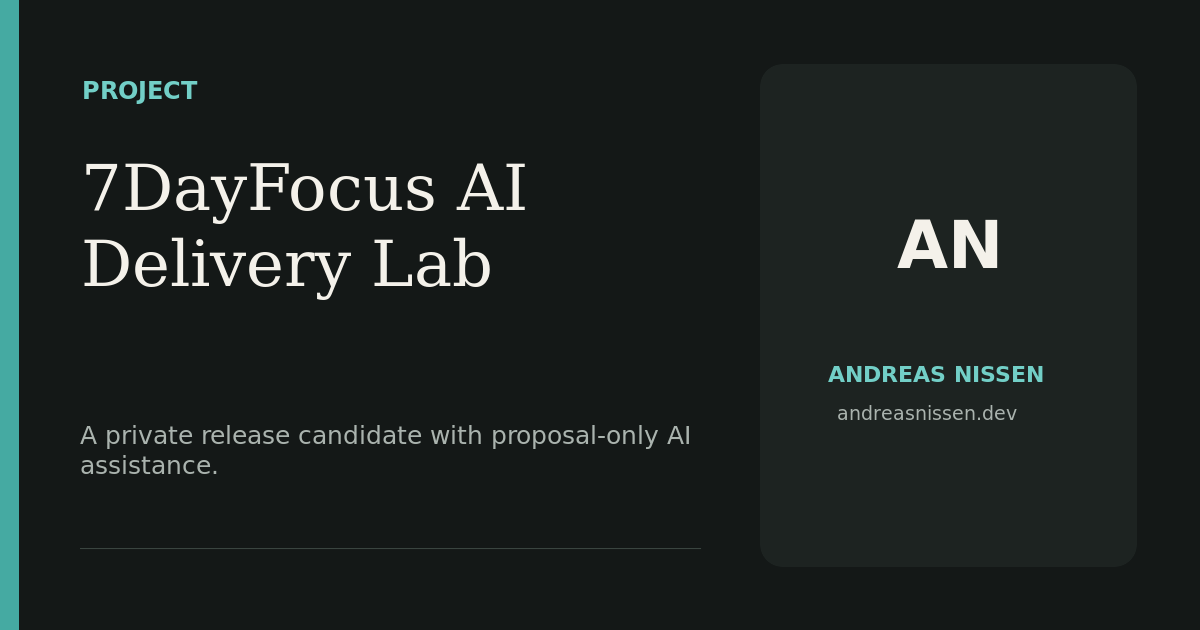
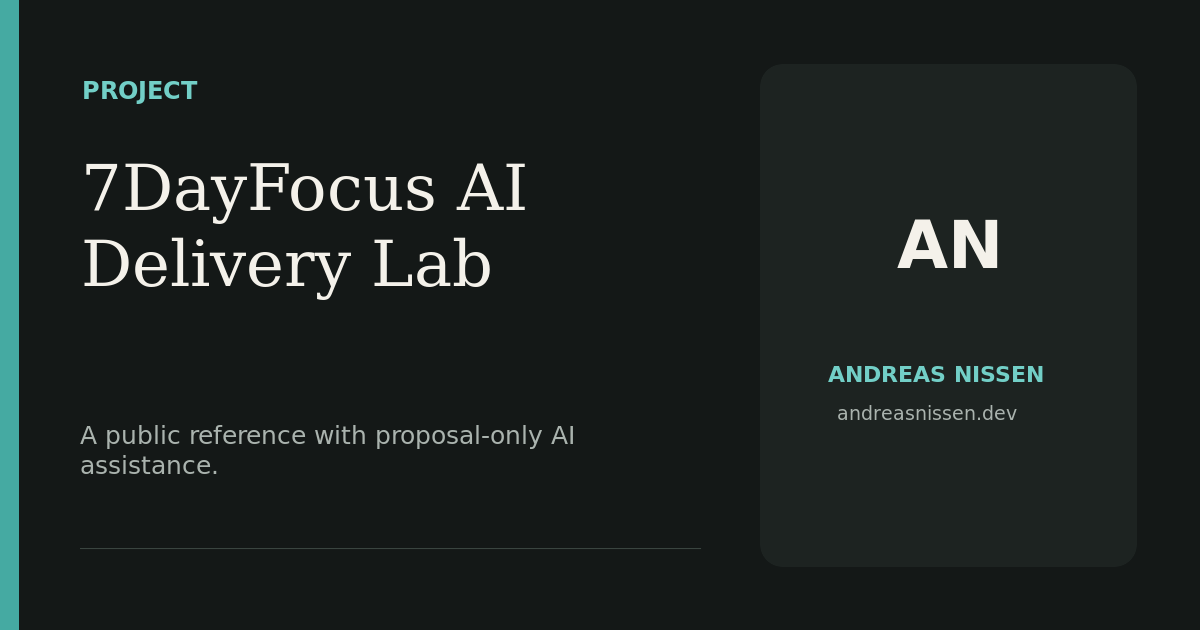
Publish AI-native delivery methods case study

Changed region(s): [[0.0925, 0.6635, 0.5858, 0.7238]]

diff --git a/content/projects/7dayfocus-ai-delivery-lab.md b/content/projects/7dayfocus-ai-delivery-lab.md
@@ -4,17 +4,81 @@ description: "A local-first weekly planner with a human-approved AI assistant, b
 role: "Creator and repository owner"
 year: 2026
 weight: 20
-featured: false
-statusLabel: "Private release candidate"
+featured: true
+statusLabel: "Public reference lab"
 tags:
   - Claude
   - OpenAI
   - evaluations
   - human approval
 socialImage: "/images/social/7dayfocus.png"
-socialImageAlt: "7DayFocus AI Delivery Lab, a private release candidate by Andreas Nissen."
-relatedArticleURL: "/writing/context-and-control/"
-relatedArticleTitle: "Context and Control Are Different Layers"
+socialImageAlt: "7DayFocus AI Delivery Lab, a public AI-assisted delivery reference by Andreas Nissen."
+repoURL: "https://github.com/Andreasniss/7dayfocus-ai-delivery-lab"
+relatedArticleURL: "/writing/ai-native-software-delivery-methods/"
+relatedArticleTitle: "Three AI-Native Software Delivery Methods Compared"
+evidenceReady: true
+lastVerified: "2026-08-31"
+proofStats:
+  - value: "244"
+    label: "automated tests"
+    url: "https://github.com/Andreasniss/7dayfocus-ai-delivery-lab/tree/main/src/test"
+  - value: "24"
+    label: "proposal eval cases"
+    url: "https://github.com/Andreasniss/7dayfocus-ai-delivery-lab/blob/main/evals/README.md"
+  - value: "3"
+    label: "provider adapters"
+    url: "https://github.com/Andreasniss/7dayfocus-ai-delivery-lab/blob/main/server/providers.mjs"
+  - value: "0"
+    label: "credentials for fixture path"
+    url: "https://github.com/Andreasniss/7dayfocus-ai-delivery-lab/blob/main/src/ai/fixture.ts"
+reviewerPath:
+  - title: "Clone the locked project"
+    action: "Run git clone, nvm use, and npm ci."
+    expected: "The committed lockfile installs the reviewed Node dependency graph."
+  - title: "Run the full gate"
+    action: "Run npm run verify."
+    expected: "Lint, type checking, 244 automated tests, 24 named proposal cases, and the production build pass."
+  - title: "Launch the local demo"
+    action: "Run npm run dev and open the Vite URL."
+    expected: "The planner and loopback gateway start locally; the fixture path needs no provider account."
+  - title: "Inspect the approval boundary"
+    action: "Add two fictional tasks, open Plan my week, keep Fixture demo, and generate a proposal."
+    expected: "Generation changes nothing. A complete diff appears, and one atomic change applies only after Approve all changes."
+  - title: "Reset the reviewer state"
+    action: "Remove the fictional tasks or clear this site's browser storage."
+    expected: "The local planner returns to an empty state without a server-side account or retained credential."
+reviewerFallback: "If you cannot run Node locally, inspect the proposal parser, deterministic fixture, eval suite, and P05 publication record. They expose the same bounded proposal and human-approval contract without presenting mocked adapters as live-provider evidence."
+reviewerFallbackURL: "https://github.com/Andreasniss/7dayfocus-ai-delivery-lab/tree/main/docs/ai-dlc/changes/P05-publication"
+architectureImage: "/images/projects/7dayfocus-ai-delivery-architecture.svg"
+architectureAlt: "7DayFocus architecture showing Anthropic-inspired delivery artifacts above a local runtime where model proposals pass through review, validation, explicit approval, and an atomic domain reducer."
+architectureCaption: "The delivery lane preserves intent, specification, plan, implementation, review, and evidence. The runtime lane keeps model output outside the state boundary until deterministic validation and explicit human approval succeed."
+evidenceRows:
+  - claim: "The Anthropic-inspired handoff is inspectable"
+    implementation: "Accepted intent, specification, plan, code, tests, review findings, and evidence remain versioned beside the implementation"
+    url: "https://github.com/Andreasniss/7dayfocus-ai-delivery-lab/tree/main/docs/ai-dlc"
+    linkLabel: "Inspect the artifact chain"
+  - claim: "Model output cannot mutate the planner directly"
+    implementation: "A strict proposal parser, deterministic final-state simulation, visible diff, stale-state check, and one atomic reducer action"
+    url: "https://github.com/Andreasniss/7dayfocus-ai-delivery-lab/blob/main/src/domain/planProposal.ts"
+    linkLabel: "Inspect the proposal boundary"
+  - claim: "The public path is credential-free"
+    implementation: "A deterministic fixture exercises proposal generation, review, approval, and application without a provider request"
+    url: "https://github.com/Andreasniss/7dayfocus-ai-delivery-lab/blob/main/src/ai/fixture.ts"
+    linkLabel: "Read the fixture"
+  - claim: "Provider access remains bounded"
+    implementation: "A loopback-only gateway maps a closed provider enum to fixed HTTPS destinations and never persists keys"
+    url: "https://github.com/Andreasniss/7dayfocus-ai-delivery-lab/blob/main/docs/THREAT-MODEL.md"
+    linkLabel: "Review the threat model"
+  - claim: "Evaluation claims remain separated"
+    implementation: "Named deterministic cases verify the application contract while live-provider quality remains explicitly unverified"
+    url: "https://github.com/Andreasniss/7dayfocus-ai-delivery-lab/blob/main/evals/README.md"
+    linkLabel: "Review the eval boundary"
+limitations:
+  - "The 24 proposal cases and mocked provider adapters verify deterministic application contracts, not live-model quality."
+  - "Provider keys, billing, model availability, retention, and live responses remain user and provider responsibilities."
+  - "Planner data is plaintext in browser localStorage, intended only for fictional non-sensitive data, and concurrent tabs remain last-write-wins."
+  - "The loopback gateway is a local reference boundary, not a hardened public or multi-tenant service."
+  - "The lifecycle adapts selected Anthropic guidance. It is not an Anthropic standard, certification, endorsement, or compliance claim."
 ---
 
 ## The problem
@@ -29,6 +93,14 @@ Every model response passes through a strict proposal contract and the planner's
 
 The provider key is held only for the active request, sent through a loopback-only gateway to a fixed provider destination, and then cleared from the interface. It is not stored in browser persistence, exported with planner data, logged, or committed.
 
+## How the Anthropic method works here
+
+Anthropic's [AI-native SDLC playbook](https://claude.com/blog/the-ai-native-sdlc-playbook) uses committed artifacts to preserve continuity between Plan, Design, Build, Test, Deploy, and Maintain. An accepted `intent.md` leads to `spec.md`, an approved specification leads to `plan.md`, and implementation produces the diff, tests, pull-request findings, and evidence that a reviewer can inspect. Humans remain accountable for judgment and approval.
+
+This repository adapts that artifact handshake with one folder per change, a provider-neutral `AGENTS.md`, explicit review severities, and a concise evidence ledger. Those are project choices, not Anthropic requirements. The [P05 publication packet](https://github.com/Andreasniss/7dayfocus-ai-delivery-lab/tree/main/docs/ai-dlc/changes/P05-publication) records the final release boundary.
+
+For larger enterprise delivery, AWS offers a more comprehensive [AI-Driven Development Life Cycle](https://aws.amazon.com/blogs/devops/ai-driven-development-life-cycle/) and open-source [AI-DLC Workflows](https://awslabs.github.io/aidlc-workflows/guide/00-introduction/). AWS adds Inception, Construction, and Operations phases, Units and Bolts, adaptive workflow depth, explicit state, and broader governance. The methods are related and can be layered without treating them as identical.
+
 ## What it demonstrates
 
 - One provider-neutral proposal contract can sit above Anthropic Messages, OpenAI Responses, and OpenRouter Chat Completions.
@@ -39,6 +111,6 @@ The provider key is held only for the active request, sent through a loopback-on
 
 ## Evidence and current boundary
 
-The current candidate passes 244 automated tests, including 24 named proposal-evaluation cases, plus lint, type checking, production build, clean-copy reproduction, and a zero-vulnerability dependency audit. Provider-adapter tests use mocked responses; no real credential was used and live-provider behavior is not yet claimed.
+The reviewed public reference passes 244 automated tests, including 24 named proposal-evaluation cases, plus lint, type checking, production build, clean-copy reproduction, and a zero-vulnerability dependency audit. Provider-adapter tests use mocked responses; no real credential was used and live-provider behavior is not claimed.
 
-The source repository remains private while final review and publication checks are completed. This is an independent reference project, not a production service and not affiliated with or endorsed by Anthropic, OpenAI, OpenRouter, or AWS.
+This is an independent reference project, not a production service and not affiliated with or endorsed by Anthropic, OpenAI, OpenRouter, or AWS.

diff --git a/content/writing/ai-native-software-delivery-methods.md b/content/writing/ai-native-software-delivery-methods.md
@@ -1,0 +1,93 @@
+---
+title: "Three AI-Native Software Delivery Methods Compared"
+date: 2026-08-31
+description: "Anthropic, AWS, and OpenAI describe different layers of AI-native software delivery: artifact handoffs, lifecycle governance, and the agent harness."
+socialImage: "/images/social/ai-native-delivery-methods.png"
+socialImageAlt: "Three AI-Native Software Delivery Methods Compared, an article by Andreas Nissen."
+tags:
+  - AI-DLC
+  - software delivery
+  - coding agents
+origin: "website"
+featured: true
+draft: false
+image: "/images/articles/ai-native-delivery-methods.svg"
+imageAlt: "Comparison of Anthropic artifact handoffs, AWS lifecycle governance, and OpenAI harness engineering."
+relatedProjectURL: "/projects/7dayfocus-ai-delivery-lab/"
+relatedProjectTitle: "7DayFocus AI Delivery Lab"
+---
+
+AI-native software delivery does not have one agreed method.
+
+Anthropic, AWS, and OpenAI describe three useful approaches. They overlap, and they focus on different layers:
+
+- Anthropic connects lifecycle stages through committed artifacts.
+- AWS provides a broader delivery and governance framework.
+- OpenAI focuses on the repository and tool environment that lets coding agents work reliably.
+
+The practical answer is not to pick one vendor's vocabulary. Use the smallest combination that preserves intent, makes evidence executable, and keeps human accountability at the consequential boundaries.
+
+## Anthropic: make every handoff an artifact
+
+Anthropic's [AI-native SDLC playbook](https://claude.com/blog/the-ai-native-sdlc-playbook) keeps six recognizable responsibilities: Plan, Design, Build, Test, Deploy, and Maintain. The main change is how work moves between them.
+
+Each stage writes an artifact that the next stage can read. An idea becomes `intent.md`. The accepted intent becomes `spec.md`. The approved specification becomes `plan.md`. Implementation produces code and tests. The pull request preserves review findings. A production incident can become a new intent and start the loop again.
+
+This creates a shared interface between people and agents. The product owner can correct the intent. An engineer can challenge the plan before code changes. A reviewer can compare the final diff with the accepted specification. Git records who changed and approved each artifact.
+
+The method is deliberately modular. Teams can adopt individual plays and keep humans focused on the gates that require judgment. Anthropic's [security guidance for its AI-native SDLC](https://claude.com/blog/how-anthropic-secures-its-ai-native-software-development-lifecycle) adds an important qualification: higher velocity requires risk-tiered automation, hard identity and access boundaries, deterministic and agentic review, logged approvals, and human review for critical code.
+
+The strength of this approach is continuity. It gives an agent enough durable state to continue the work without relying on one long chat. Its risk is ceremony. A small reversible change does not need four documents. The artifact chain earns its cost when ambiguity, duration, coordination, or consequence makes handoff quality important.
+
+## AWS: govern the complete delivery lifecycle
+
+AWS's [AI-Driven Development Life Cycle](https://aws.amazon.com/blogs/devops/ai-driven-development-life-cycle/) addresses a larger problem. It is a structured method for moving from customer intent through implementation and operation with AI participating across the lifecycle.
+
+The open-source [AI-DLC Workflows](https://awslabs.github.io/aidlc-workflows/guide/00-introduction/) organize work across Inception, Construction, and Operations. The [phase and stage model](https://awslabs.github.io/aidlc-workflows/guide/04-phases-and-stages/) covers discovery, requirements, design, implementation, testing, deployment, and operational learning.
+
+Two concepts make the method especially useful for complex work:
+
+1. A **Unit** is an independently implementable component or service.
+2. A **Bolt** is one Construction pass for a Unit or a small dependency-linked group.
+
+The first Bolt should create a walking skeleton that exercises the architecture end to end. Later Bolts can follow dependency, value, risk, and learning priorities. AWS also makes [scope and workflow depth](https://awslabs.github.io/aidlc-workflows/guide/05-scopes-and-depth/) explicit, so a focused change does not automatically inherit the same process as a large system.
+
+This is stronger than a file naming convention. It provides lifecycle governance, decomposition, traceability, and evidence for environments where several teams, services, controls, or approval owners are involved.
+
+The tradeoff is weight. A full enterprise method can slow down work when the real need is one bounded repository change. The method should scale with consequence and irreversibility, not with project prestige.
+
+## OpenAI: engineer the harness around the agent
+
+OpenAI's [harness engineering](https://openai.com/index/harness-engineering/) starts from another observation: an agent is only as effective as the environment in which it works.
+
+Repository knowledge must be discoverable. Tests, linters, type checkers, and build commands must provide fast feedback. Work should be isolated and reviewable. Repeated review feedback should become durable instructions or deterministic checks. The harness gives the model context, tools, observable results, and a clear definition of done.
+
+OpenAI's guidance for [long-horizon Codex tasks](https://developers.openai.com/blog/run-long-horizon-tasks-with-codex) makes the operating loop concrete: plan, edit, run tools, observe, repair, update status, and repeat. Durable project memory keeps the work coherent through a specification, milestone plan, execution instructions, and a current status record.
+
+The [custom code review rules](https://developers.openai.com/blog/custom-code-review-rules-for-codex) show how the harness learns. Consequential repository-specific invariants belong in scoped `AGENTS.md` rules. Mechanical checks remain in CI. A rule should include both the risk and the safe path, and it should be tested against violations, valid exceptions, and unrelated changes.
+
+Harness engineering is less a lifecycle methodology than an execution foundation. It explains why the same model performs differently across repositories. A vague codebase with slow tests and hidden conventions will produce weaker agent work than a repository with clear boundaries and immediate feedback.
+
+## How the methods fit together
+
+| Method | Primary layer | Best fit | Main risk |
+| --- | --- | --- | --- |
+| Anthropic AI-native SDLC | Artifact handoffs between stages | One product or repository that needs durable continuity and reviewable approval | Creating documents that do not improve a decision |
+| AWS AI-DLC | Lifecycle governance and decomposition | Complex enterprise delivery with multiple components, controls, or teams | Applying the full method to small reversible work |
+| OpenAI harness engineering | Agent execution environment and feedback loops | Any repository where coding agents must operate reliably over time | Treating instructions as enforcement instead of adding tests and boundaries |
+
+I would combine them in three layers:
+
+1. Use AWS to decide the delivery depth, decomposition, and governance that the outcome requires.
+2. Use Anthropic's artifact handshake where intent, specification, plan, and evidence must survive across people or agent sessions.
+3. Use harness engineering to make the repository executable: clear instructions, bounded tools, fast verification, observable failures, and feedback encoded close to the code.
+
+Then define authority once. Deterministic controls should enforce stable invariants. Agents should handle reviewable exploration and implementation. Humans should retain product judgment, material risk acceptance, and irreversible release decisions.
+
+## A small working example
+
+I used the lighter artifact pattern in the [7DayFocus AI Delivery Lab](/projects/7dayfocus-ai-delivery-lab/). Each material change keeps accepted intent, specification, plan, implementation, tests, review findings, and evidence beside the code.
+
+The runtime demonstrates the same principle at a different boundary. A model may propose task moves and priority changes. The application parses and validates the complete proposal, shows the exact diff, checks that state has not changed, and applies one atomic transition only after explicit approval.
+
+The repository does not claim to implement Anthropic's internal process or the full AWS AI-DLC. It makes one useful pattern inspectable: agents can move quickly when intent and evidence are durable, deterministic boundaries remain outside the model, and humans approve the decisions that matter.

diff --git a/README.md b/README.md
@@ -7,7 +7,7 @@ A Hugo portfolio and long-form writing site for Andreas Nissen, deployed automat
 ## What is included
 
 - Homepage with positioning, selected projects, and selected writing
-- Writing archive with three launch articles and two verified imports from Andreas's published LinkedIn activity
+- Writing archive with four website-origin articles and three verified imports from Andreas's published LinkedIn activity
 - Project pages grounded in verified public repositories or owned live demos
 - A clearly separated "Work I Love" collection for attributed external articles, blogs, and repositories
 - A Selected Impact page that separates public proof, professional scope, and personally owned workshop material
